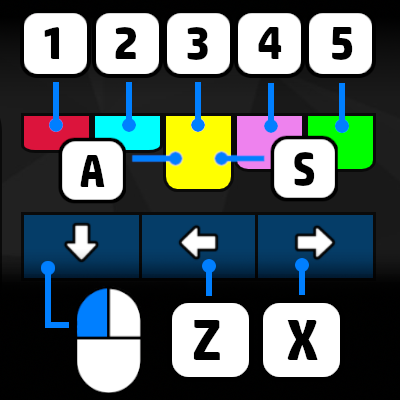
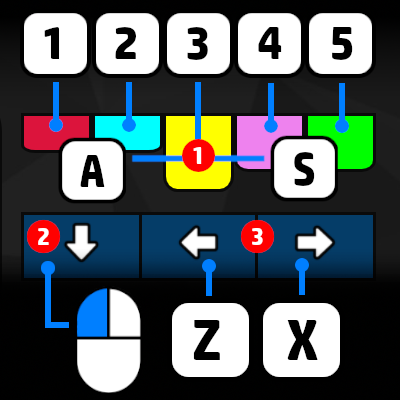
added keys for help modal telling each button functionality.

Changed region(s): [[0.42, 0.3, 0.57, 0.45], [0.6, 0.54, 0.69, 0.63], [0.06, 0.54, 0.15, 0.63]]

diff --git a/src/components/room_page/style.scss b/src/components/room_page/style.scss
@@ -269,10 +269,27 @@
     justify-content: center;
     align-items: center;
 
-    & > img {
-        width: 90vw;
-        height: auto;
-        max-width: 400px;
+    #help-modal-content {
+        border: 0.2em $black solid;
+        background-color: $dark;
+        display: flex;
+        flex-direction: row;
+        align-items: center;
+
+        & > img {
+            width: 90vw;
+            height: auto;
+            max-width: 320px;
+        }
+        & > div {
+            padding: 1em;
+
+            p {
+                color: $text_white;
+                font-size: 1.2em;
+                
+            }
+        }
     }
 }
 
@@ -288,6 +305,17 @@
 
         #left-div {
             margin-top: 0;
+        }
+    }
+
+    #help-modal {
+        #help-modal-content {
+            flex-direction: column;
+            & > div {
+                p {
+                    font-size: 1em;  
+                }
+            }
         }
     }
 }

diff --git a/src/components/room_page/index.tsx b/src/components/room_page/index.tsx
@@ -217,7 +217,14 @@ const Room_Page = ({ socket, room, resetMainPage, nickname, setRoom, getText, se
     const helpModalRef = useRef<HTMLDivElement>(null);
     function helpModalRender(): JSX.Element {
         return <div id="help-modal" ref={helpModalRef}>
-            <img src={help_img} alt="control keys" />
+            <div id="help-modal-content">
+                <img src={help_img} alt="control keys" />
+                <div>
+                    <p>1. {getText(["play_page", "help_list", "li0"])}</p>
+                    <p>2. {getText(["play_page", "help_list", "li1"])}</p>
+                    <p>3. {getText(["play_page", "help_list", "li2"])}</p>
+                </div>
+            </div>
             <button className="close-modal-button" onClick={()=>{setHelpModalHidden(true)}}>
                 {getText(["room_page", "close"])}
             </button>
